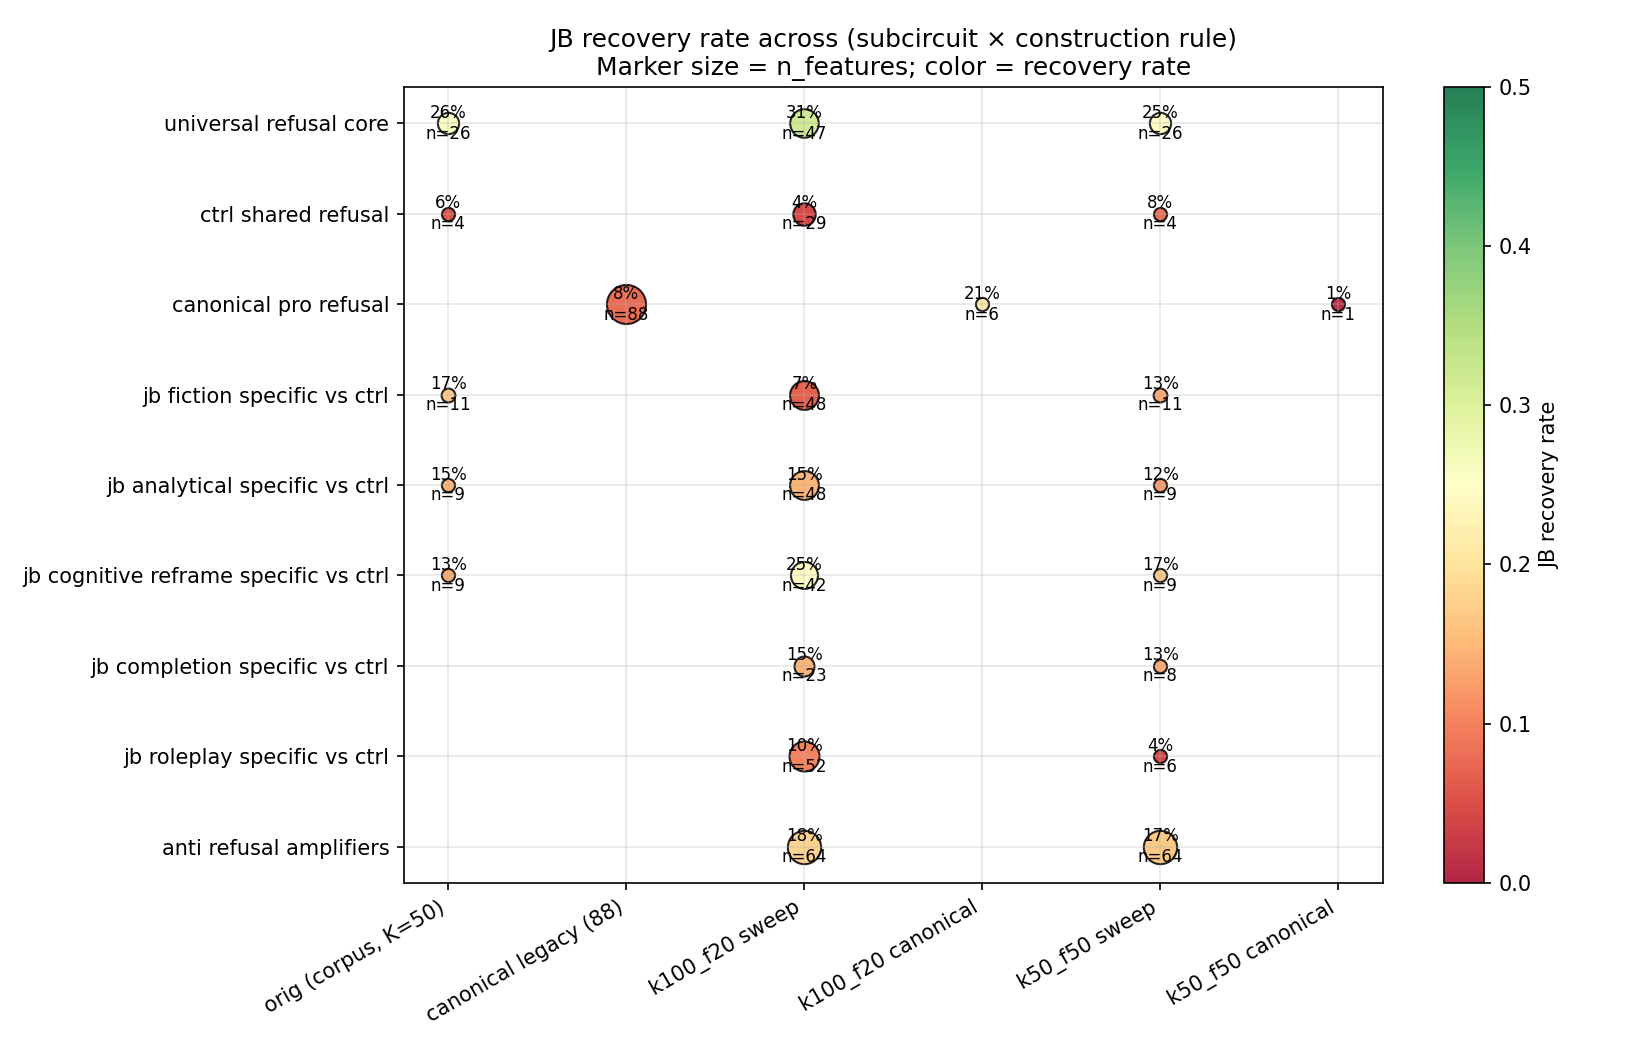
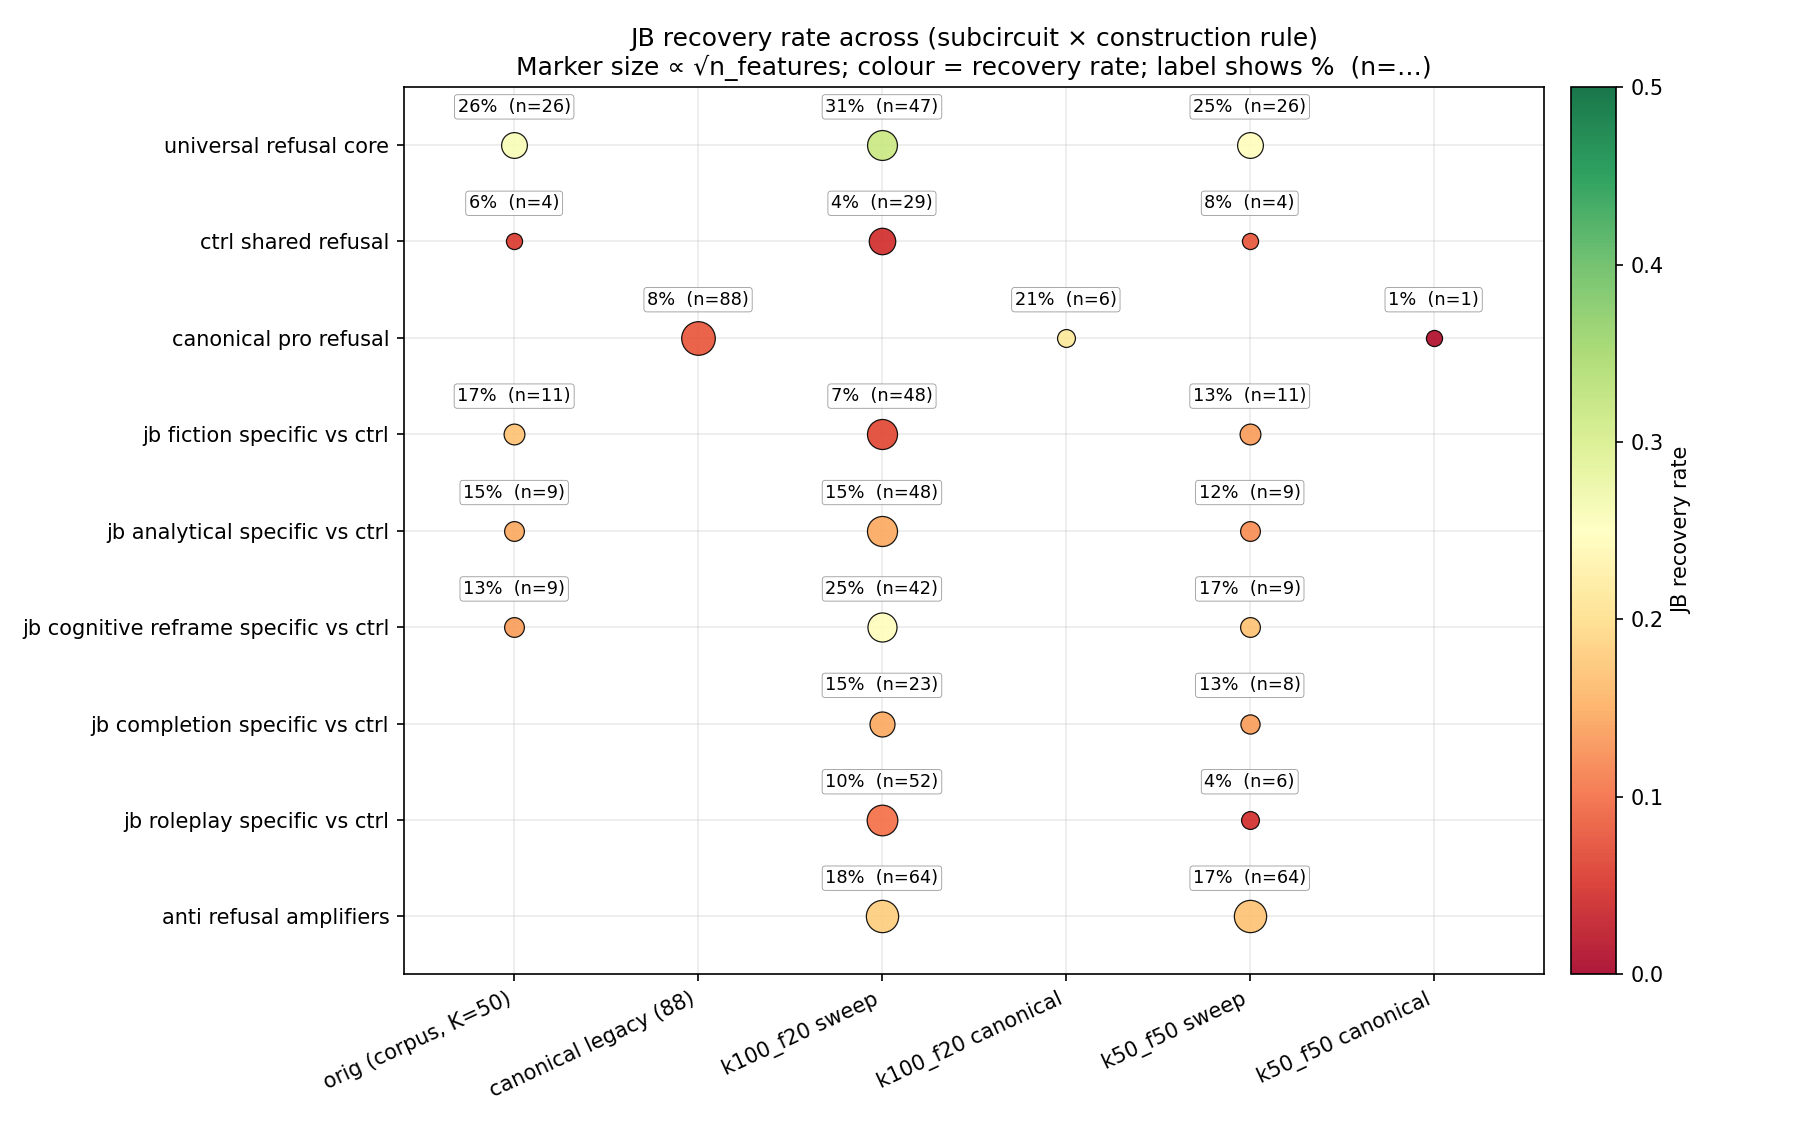
refactor figure generation for improved clarity and aesthetics

diff --git a/scripts/analysis/generate_paper_figures.py b/scripts/analysis/generate_paper_figures.py
@@ -178,12 +178,13 @@ def fig5_recovery_vs_features(rows: list[dict], direction_rate: float = 1.0) -> 
             return "orig"
         return "corpus_union"
 
-    fig, ax = plt.subplots(figsize=(9, 6))
+    fig, ax = plt.subplots(figsize=(13, 7.5))
     # Direction line
     ax.axhline(y=direction_rate, color=cat_colors["direction"], linestyle="--", linewidth=2,
                label=f"Direction intervention ({direction_rate*100:.0f}%)", zorder=10)
 
-    # Points
+    # Collect plottable points first
+    pts = []  # list of (x, y, lo, hi, cat, color, name)
     for r in rows:
         if r["position_mode"] != "all":
             continue
@@ -191,21 +192,45 @@ def fig5_recovery_vs_features(rows: list[dict], direction_rate: float = 1.0) -> 
             continue
         cat = categorize(r)
         color = cat_colors.get(cat, "#666666")
-        x = r["n_features"]
-        y = r["jb_recovery_rate"]
-        # Vertical CI bars
-        lo = r["jb_ci_lo"]
-        hi = r["jb_ci_hi"]
+        pts.append((r["n_features"], r["jb_recovery_rate"], r["jb_ci_lo"], r["jb_ci_hi"],
+                    cat, color, r["ablation"]))
+
+    # Draw error bars
+    for x, y, lo, hi, cat, color, name in pts:
         ax.errorbar([x], [y], yerr=[[y - lo], [hi - y]], fmt="o", color=color,
                     capsize=3, alpha=0.85, markersize=8)
-        # Annotate Pareto pts
-        ax.annotate(r["ablation"][:18], (x, y), fontsize=7, alpha=0.6,
-                    xytext=(5, 3), textcoords="offset points")
+
+    # Pareto frontier: maximize y for any n <= x. Only annotate frontier + a few extremes.
+    sorted_pts = sorted(pts, key=lambda p: (p[0], -p[1]))
+    frontier = []
+    best_y = -1.0
+    for p in sorted_pts:
+        if p[1] > best_y:
+            frontier.append(p)
+            best_y = p[1]
+    # Also force-label the highest-y point overall and the largest-n point
+    must_label = set(id(p) for p in frontier)
+    if pts:
+        must_label.add(id(max(pts, key=lambda p: p[1])))
+        must_label.add(id(max(pts, key=lambda p: p[0])))
+        must_label.add(id(min(pts, key=lambda p: p[0])))
+
+    # Place labels with leader lines, alternating above/below to reduce overlap
+    label_pts = [p for p in pts if id(p) in must_label]
+    label_pts.sort(key=lambda p: p[0])
+    for i, (x, y, lo, hi, cat, color, name) in enumerate(label_pts):
+        # Alternate vertical placement so neighbors don't stack
+        dy = 18 if (i % 2 == 0) else -22
+        dx = 6 if (i % 2 == 0) else -6
+        ha = "left" if dx > 0 else "right"
+        ax.annotate(name, xy=(x, y), xytext=(dx, dy), textcoords="offset points",
+                    fontsize=8, alpha=0.85, ha=ha,
+                    bbox=dict(boxstyle="round,pad=0.2", fc="white", ec=color, lw=0.6, alpha=0.85),
+                    arrowprops=dict(arrowstyle="-", color=color, lw=0.6, alpha=0.6))
 
     # Legend
     seen_cats = set()
-    for r in rows:
-        cat = categorize(r)
+    for _, _, _, _, cat, _, _ in pts:
         if cat in seen_cats:
             continue
         seen_cats.add(cat)
@@ -214,11 +239,11 @@ def fig5_recovery_vs_features(rows: list[dict], direction_rate: float = 1.0) -> 
     ax.set_xscale("log")
     ax.set_xlabel("n features ablated (log scale)", fontsize=12)
     ax.set_ylabel("JB-comply → REFUSE recovery rate (weighted)", fontsize=12)
-    ax.set_ylim(0, 1.05)
+    ax.set_ylim(-0.05, 1.10)
     ax.set_title("Recovery-vs-features Pareto: ablations plateau far below direction-level potency",
                  fontsize=13)
     ax.grid(True, alpha=0.3)
-    ax.legend(loc="center right", fontsize=10)
+    ax.legend(loc="center left", fontsize=10, framealpha=0.9)
 
     out = FIG_DIR / "F5_recovery_vs_features_pareto.png"
     fig.tight_layout()
@@ -313,30 +338,45 @@ def fig6_construction_rule_robustness(rows: list[dict]) -> None:
         print("[skip] no rows for F6")
         return
 
-    fig, ax = plt.subplots(figsize=(11, 7))
+    fig, ax = plt.subplots(figsize=(12, 7.5))
     sub_y = {s: i for i, s in enumerate(reversed(keep_subs))}
     cfg_x = {c: i for i, c in enumerate(config_order)}
 
+    # Cap marker size so big-n cells don't swallow neighbours; use sqrt scaling.
+    import math as _math
+    sc = None
     for (sub, cfg), rate in grid.items():
         x = cfg_x[cfg]
         y = sub_y[sub]
         n = n_grid[(sub, cfg)]
         if n is None or n <= 0:
             continue
-        size = max(40, min(400, (n or 0) * 4))
+        size = max(60, min(260, 30 * _math.sqrt(n)))
         sc = ax.scatter(x, y, s=size, c=[rate], cmap="RdYlGn", vmin=0, vmax=0.5,
-                        edgecolors="black", alpha=0.85)
-        ax.text(x, y, f"{rate*100:.0f}%\nn={n}", ha="center", va="center", fontsize=8)
+                        edgecolors="black", linewidths=0.6, alpha=0.9, zorder=3)
+        # Two-line label placed above the marker so it never clashes with the disk.
+        ax.annotate(
+            f"{rate*100:.0f}%  (n={n})",
+            xy=(x, y), xytext=(0, 14), textcoords="offset points",
+            ha="center", va="bottom", fontsize=8.5, zorder=4,
+            bbox=dict(boxstyle="round,pad=0.18", fc="white", ec="#888888",
+                      lw=0.4, alpha=0.85),
+        )
 
+    # Add some breathing room around the grid
+    ax.set_xlim(-0.6, len(config_order) - 0.4)
+    ax.set_ylim(-0.6, len(keep_subs) - 0.4)
     ax.set_xticks(list(cfg_x.values()))
-    ax.set_xticklabels([config_label[c] for c in config_order], rotation=30, ha="right")
+    ax.set_xticklabels([config_label[c] for c in config_order], rotation=25, ha="right",
+                       fontsize=10)
     ax.set_yticks(list(sub_y.values()))
-    ax.set_yticklabels([s.replace("_", " ") for s in reversed(keep_subs)])
+    ax.set_yticklabels([s.replace("_", " ") for s in reversed(keep_subs)], fontsize=10)
     ax.set_title("JB recovery rate across (subcircuit × construction rule)\n"
-                 "Marker size = n_features; color = recovery rate",
+                 "Marker size ∝ √n_features; colour = recovery rate; label shows %  (n=…)",
                  fontsize=12)
-    plt.colorbar(sc, ax=ax, label="JB recovery rate")
-    ax.grid(True, alpha=0.3)
+    if sc is not None:
+        plt.colorbar(sc, ax=ax, label="JB recovery rate", pad=0.02)
+    ax.grid(True, alpha=0.25, zorder=1)
 
     out = FIG_DIR / "F6_construction_rule_robustness.png"
     fig.tight_layout()
